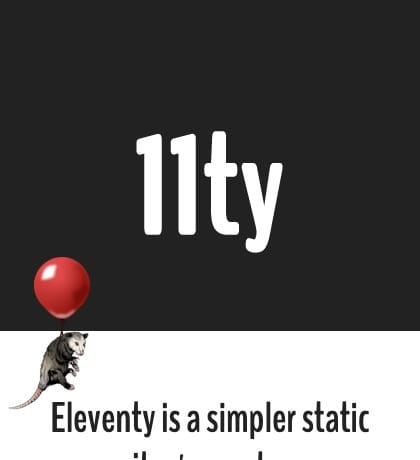
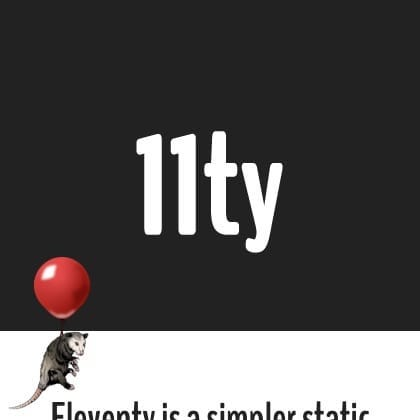
Move to use api.11ty.dev for screenshots instead.

diff --git a/.eleventy.js b/.eleventy.js
@@ -58,32 +58,15 @@ const shortcodes = {
 			(linkUrl ? `</a>` : "");
 	},
 	getScreenshotHtml: function(siteSlug, siteUrl, sizes) {
-		let viewport;
-		let screenshotUrl;
+		let viewport = {
+			width: 420,
+			height: 420,
+		};
 
-		if(siteUrl.startsWith("https://www.youtube.com/watch?")) {
-			let videoId = (new URLSearchParams(siteUrl.split("?")[1])).get("v");
-			screenshotUrl = `https://img.youtube.com/vi/${videoId}/hqdefault.jpg`;
+		let screenshotUrl = `https://api.11ty.dev/screenshot/1.0/${encodeURIComponent(siteUrl)}/small/`;
 
-			viewport = {
-				width: 480,
-				width: 360,
-			};
-		} else {
-			viewport = {
-				width: 420,
-				height: 460,
-			};
-
-			let localhostEnv = "https://www.11ty.dev";
-			let forcedHost = !process.env.DEPLOY_PRIME_URL ? localhostEnv : "";
-			let screenshotPath = `/api/screenshot/${encodeURIComponent(siteUrl)}/${viewport.width}x${viewport.height}/`;
-			if(siteSlug === "11ty" || siteSlug === "foursquare") {
-				forcedHost = "";
-				screenshotPath = `/img/screenshot-fallbacks/${siteSlug}.jpg`;
-			}
-
-			screenshotUrl = `${forcedHost}${screenshotPath}`;
+		if(siteSlug === "11ty" || siteSlug === "foursquare") {
+			screenshotUrl = `/img/screenshot-fallbacks/${siteSlug}.jpg`;
 		}
 
 		let options = {
